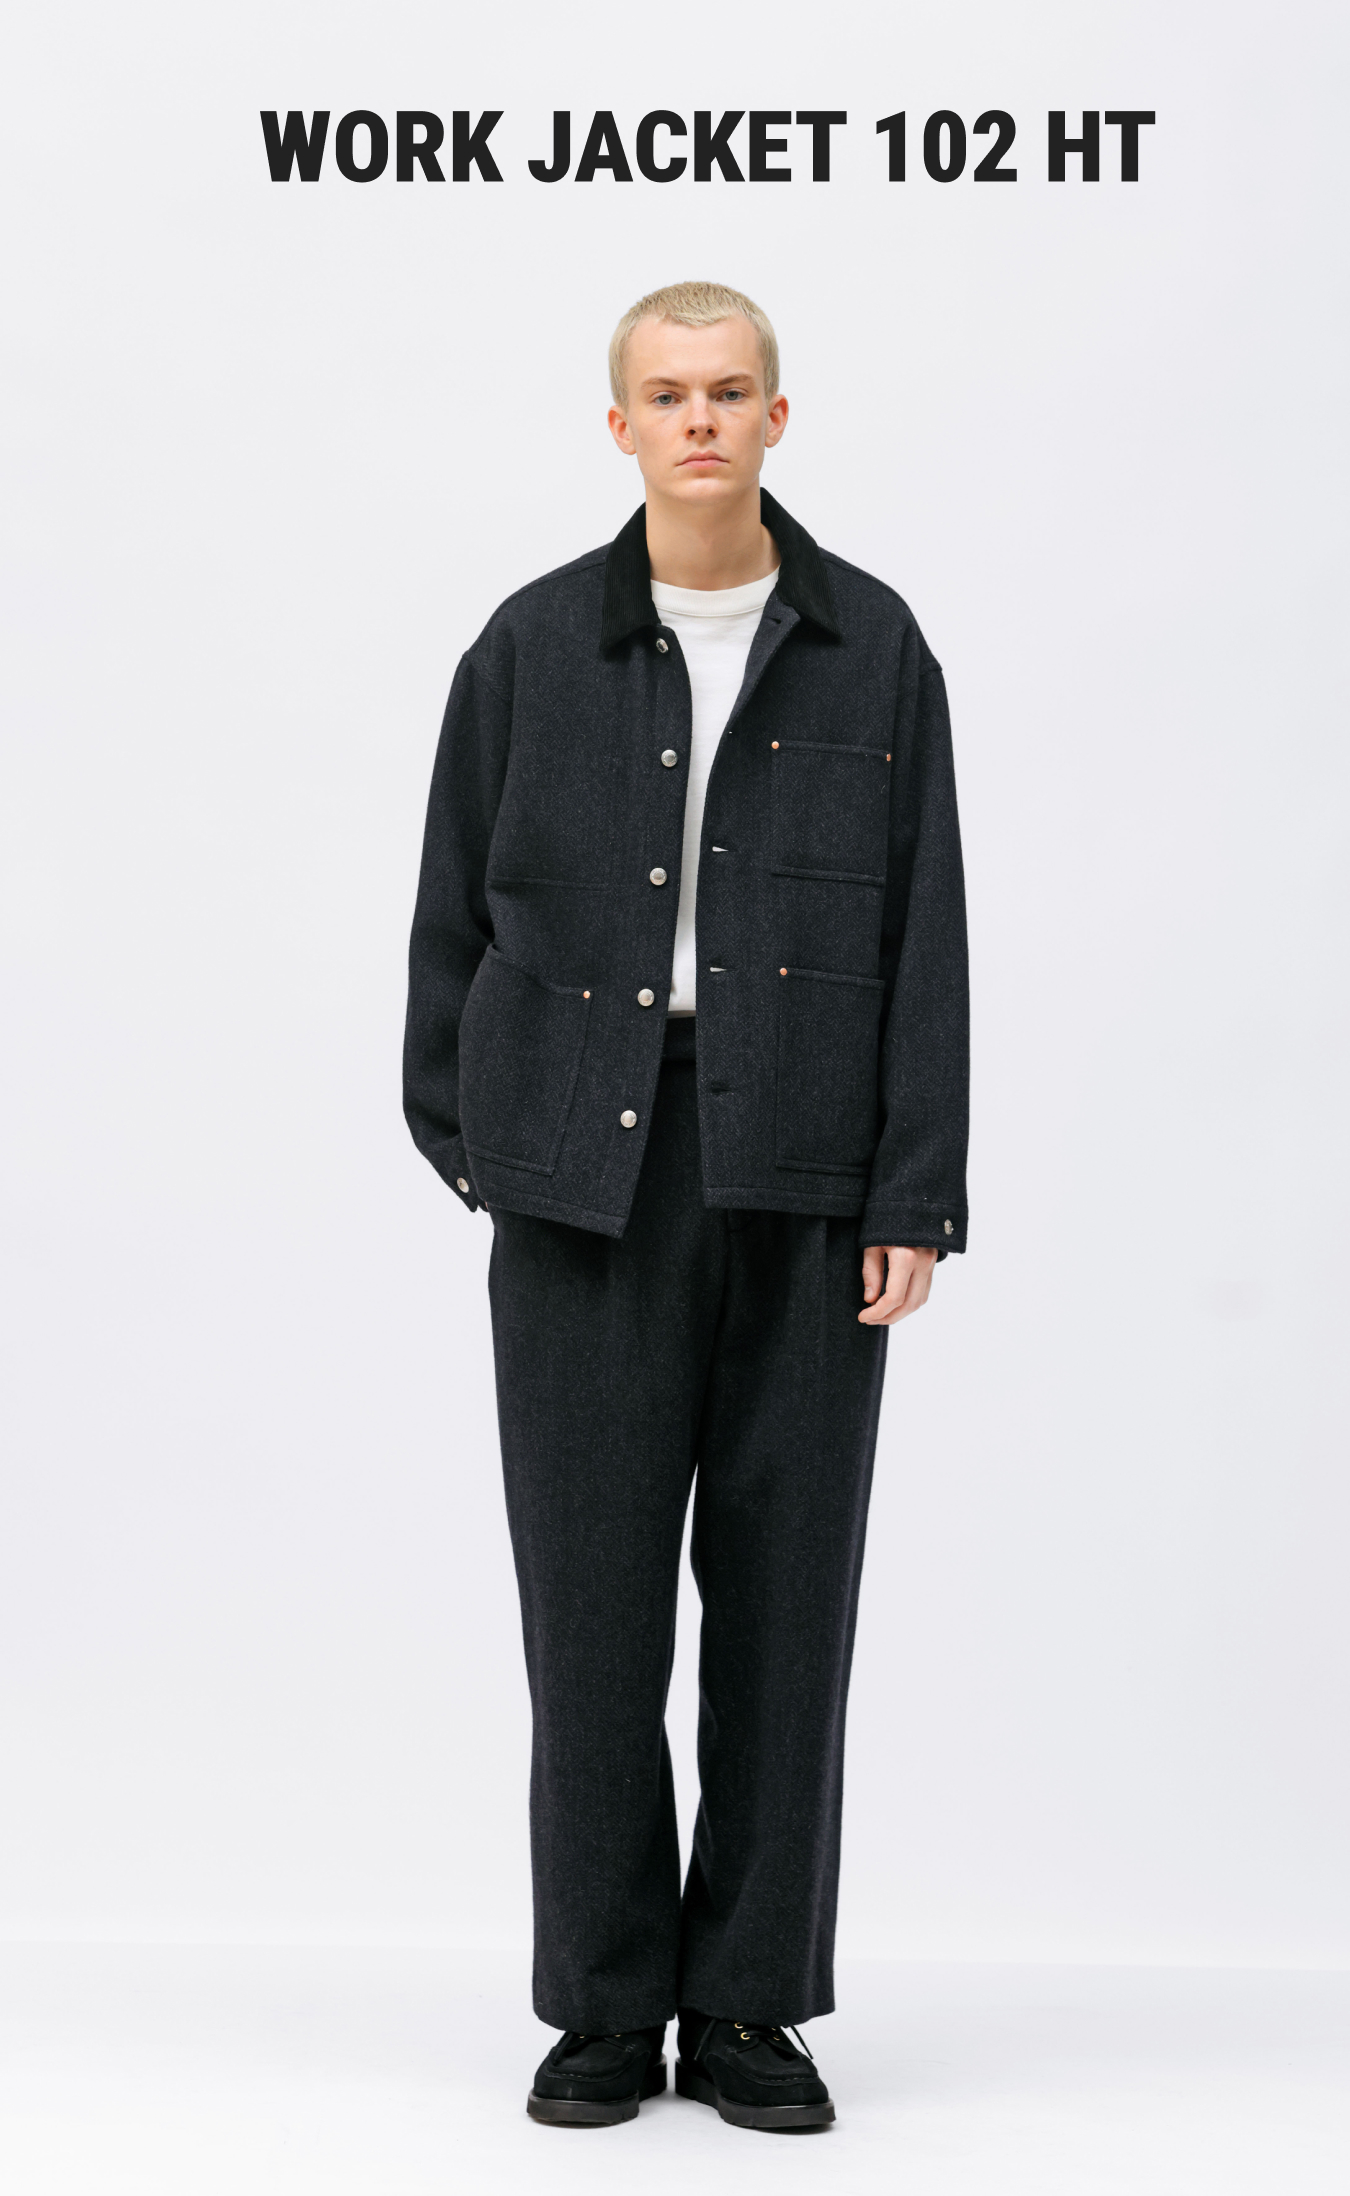
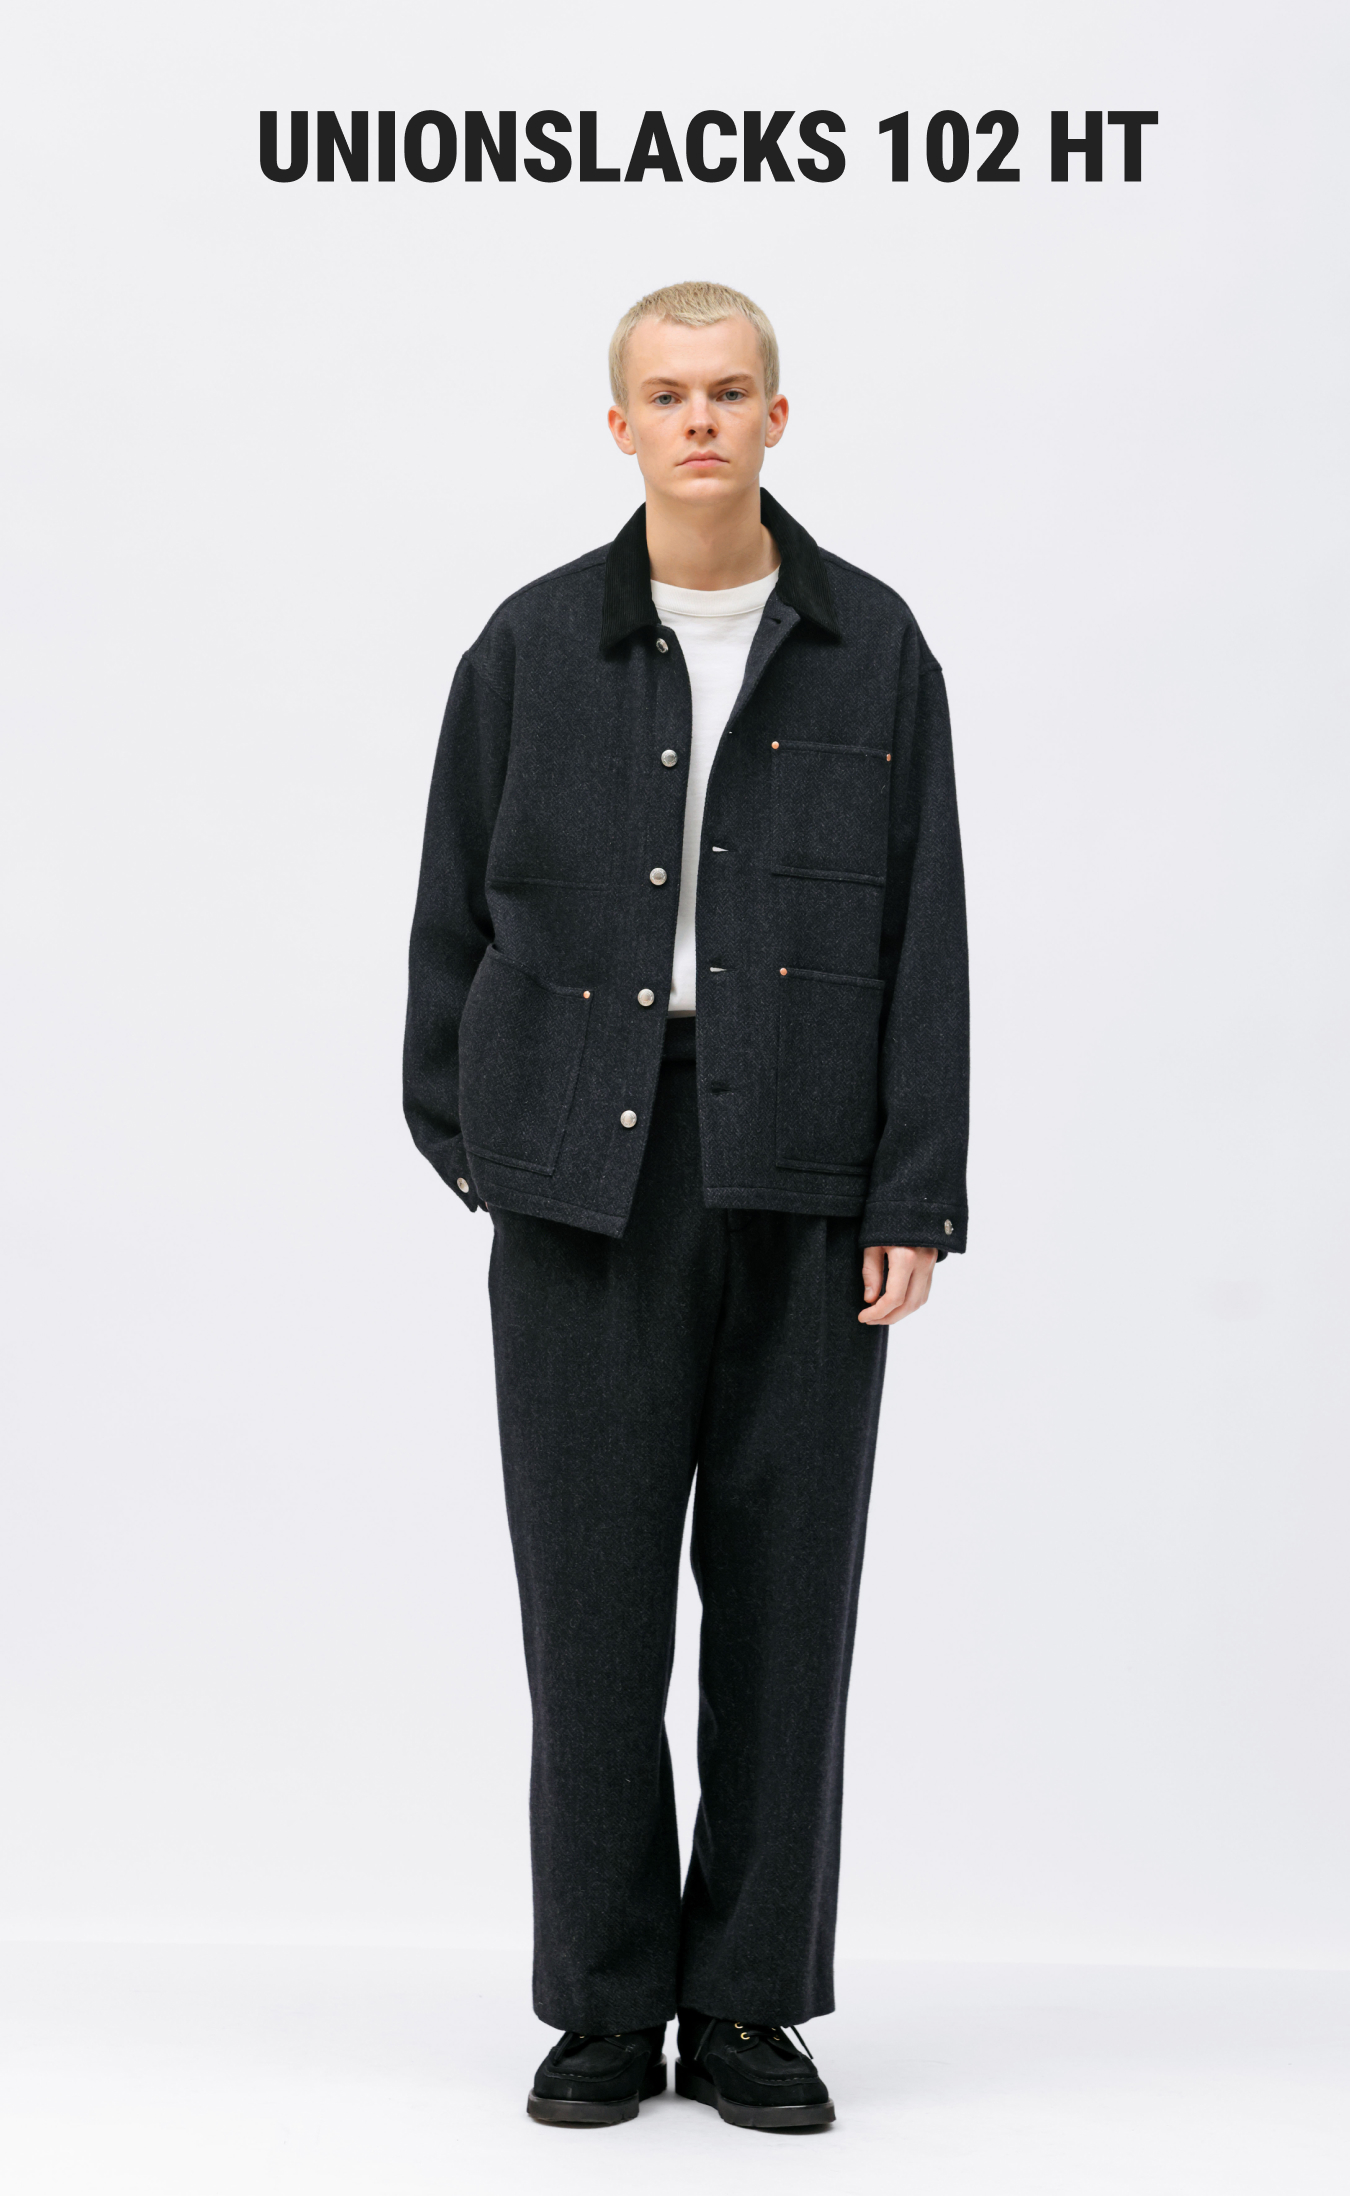
Update

Changed region(s): [[0.1867, 0.031, 0.6222, 0.0929], [0.6533, 0.0619, 0.7467, 0.0929], [0.7778, 0.0619, 0.84, 0.0929]]

diff --git a/tww/unionwear_2610/index-heattweed.html b/tww/unionwear_2610/index-heattweed.html
@@ -1188,7 +1188,7 @@
                 <a href="https://www.tww-uk.com/cluel_heattweed_26aw_style04">
                   <img
                     src="./assets/images/inheattweed/img-04.jpg"
-                    alt="WORK JACKET 102 HT"
+                    alt="UNIONSLACKS 102 HT"
                     width="100%"
                     id="heattweed03"
                   />
@@ -1214,7 +1214,7 @@
               <div class="uw_contents-devide-line-double"></div>
 
               <div class="uw_contents-details">
-                <h2 class="uw_ttl-eng fs-m">WORK JACKET 102 HT</h2>
+                <h2 class="uw_ttl-eng fs-m">UNIONSLACKS 102 HT</h2>
 
                 <ul class="uw_lst-details">
                   <li>
